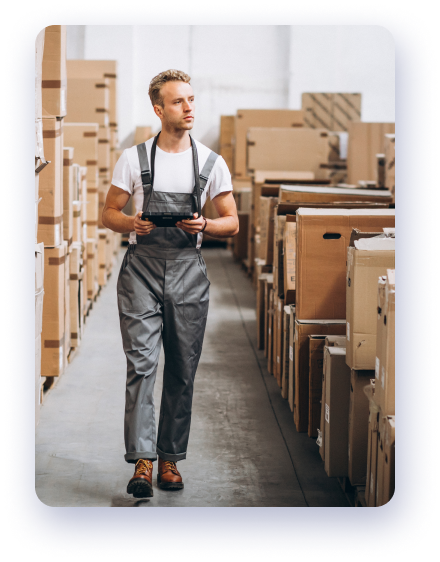
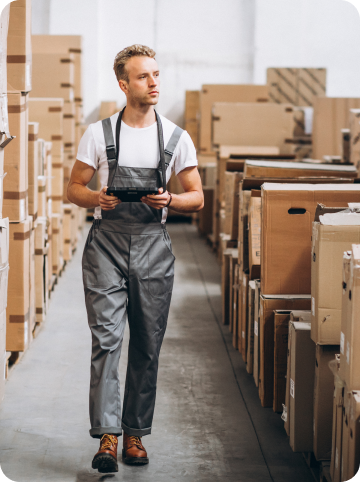
dev logist

diff --git a/assets/css/mobile.css b/assets/css/mobile.css
@@ -3,6 +3,12 @@
         justify-content: center;
     }
 
+    .first-screen-slider__item {
+        border-radius: 0;
+        padding-left: 20px;
+        padding-right: 20px;
+        min-height: 552px;
+    }
 
     .first-screen-title {
         font-size: 32px;
@@ -31,16 +37,35 @@
     }
 
     .delivery-slider {
-        max-width: 360px;
+        max-width: 575px;
     }
 
-    .delivery .container-lg, .services .container-lg {
+    .delivery .container-lg,
+    .services .container-lg {
         padding-left: 0;
         padding-right: 0;
     }
 }
 
-@media only screen and (max-width: 1040px) {
+@media only screen and (max-width: 767px) {
+    
+    .first-screen-slider__item {
+        border-radius: 0;
+        padding-left: 20px;
+        padding-right: 20px;
+        min-height: 552px;
+    }
+}
+
+@media only screen and (max-width: 991px) {
+    :root {
+        --margin-bottom: 55px;
+    }
+
+    .section-margin {
+        margin-left: 0;
+        margin-right: 0;
+    }
 
     .master-tao .navbar {
         margin: 20px 0;
@@ -61,19 +86,20 @@
         margin-bottom: 15px;
     }
 
+
     .first-screen-slider__item {
         background-position: center;
         border-radius: 0px;
         width: 100%;
         height: 640px;
+        border-radius: 0;
+        padding-left: 20px;
+        padding-right: 20px;
+        min-height: 552px;
     }
 
     .col-6 {
         width: 100%;
-    }
-
-    .steps {
-        display: none;
     }
 
     .template-title h3 {
@@ -84,16 +110,50 @@
         display: block;
     }
 
-    .about .text-decoration__item{
+    .about .text-decoration__item {
         left: 40%;
 
-    } 
+    }
 
-    .about-discruption{
+    .about-discruption {
         font-size: 16px;
         text-align: justify;
     }
-    
+
+    .delivery-slider {
+        max-width: 372px;
+    }
+
+    .advantages {
+        border-radius: 0;
+    }
+
+    .txt {
+        border-radius: 0;
+    }
+
+    .services {
+        border-radius: 0;
+    }
+
+    .footer-nav {
+        display: none;
+    }
+
+    .txt-content {
+        margin-top: 36px;
+    }
+
+    .delivery-slider {
+        max-width: 372px;
+    }
+
+    .footer-info {
+        display: flex;
+        flex-direction: column;
+        align-items: center;
+    }
+
 }
 
 @media only screen and (max-width:1199px) {
@@ -117,4 +177,7 @@
         text-transform: uppercase;
     }
 
+    .delivery-slider {
+        max-width: 744px;
+    }
 }

diff --git a/assets/css/slider.css b/assets/css/slider.css
@@ -245,6 +245,10 @@ main {
     border: 2px solid #fff;
 }
 
+.delivery-slider .slick-dots {
+    bottom: -50px;
+}
+
 .btn-orange {
     background: var(--color-1);
     color: #fff;
